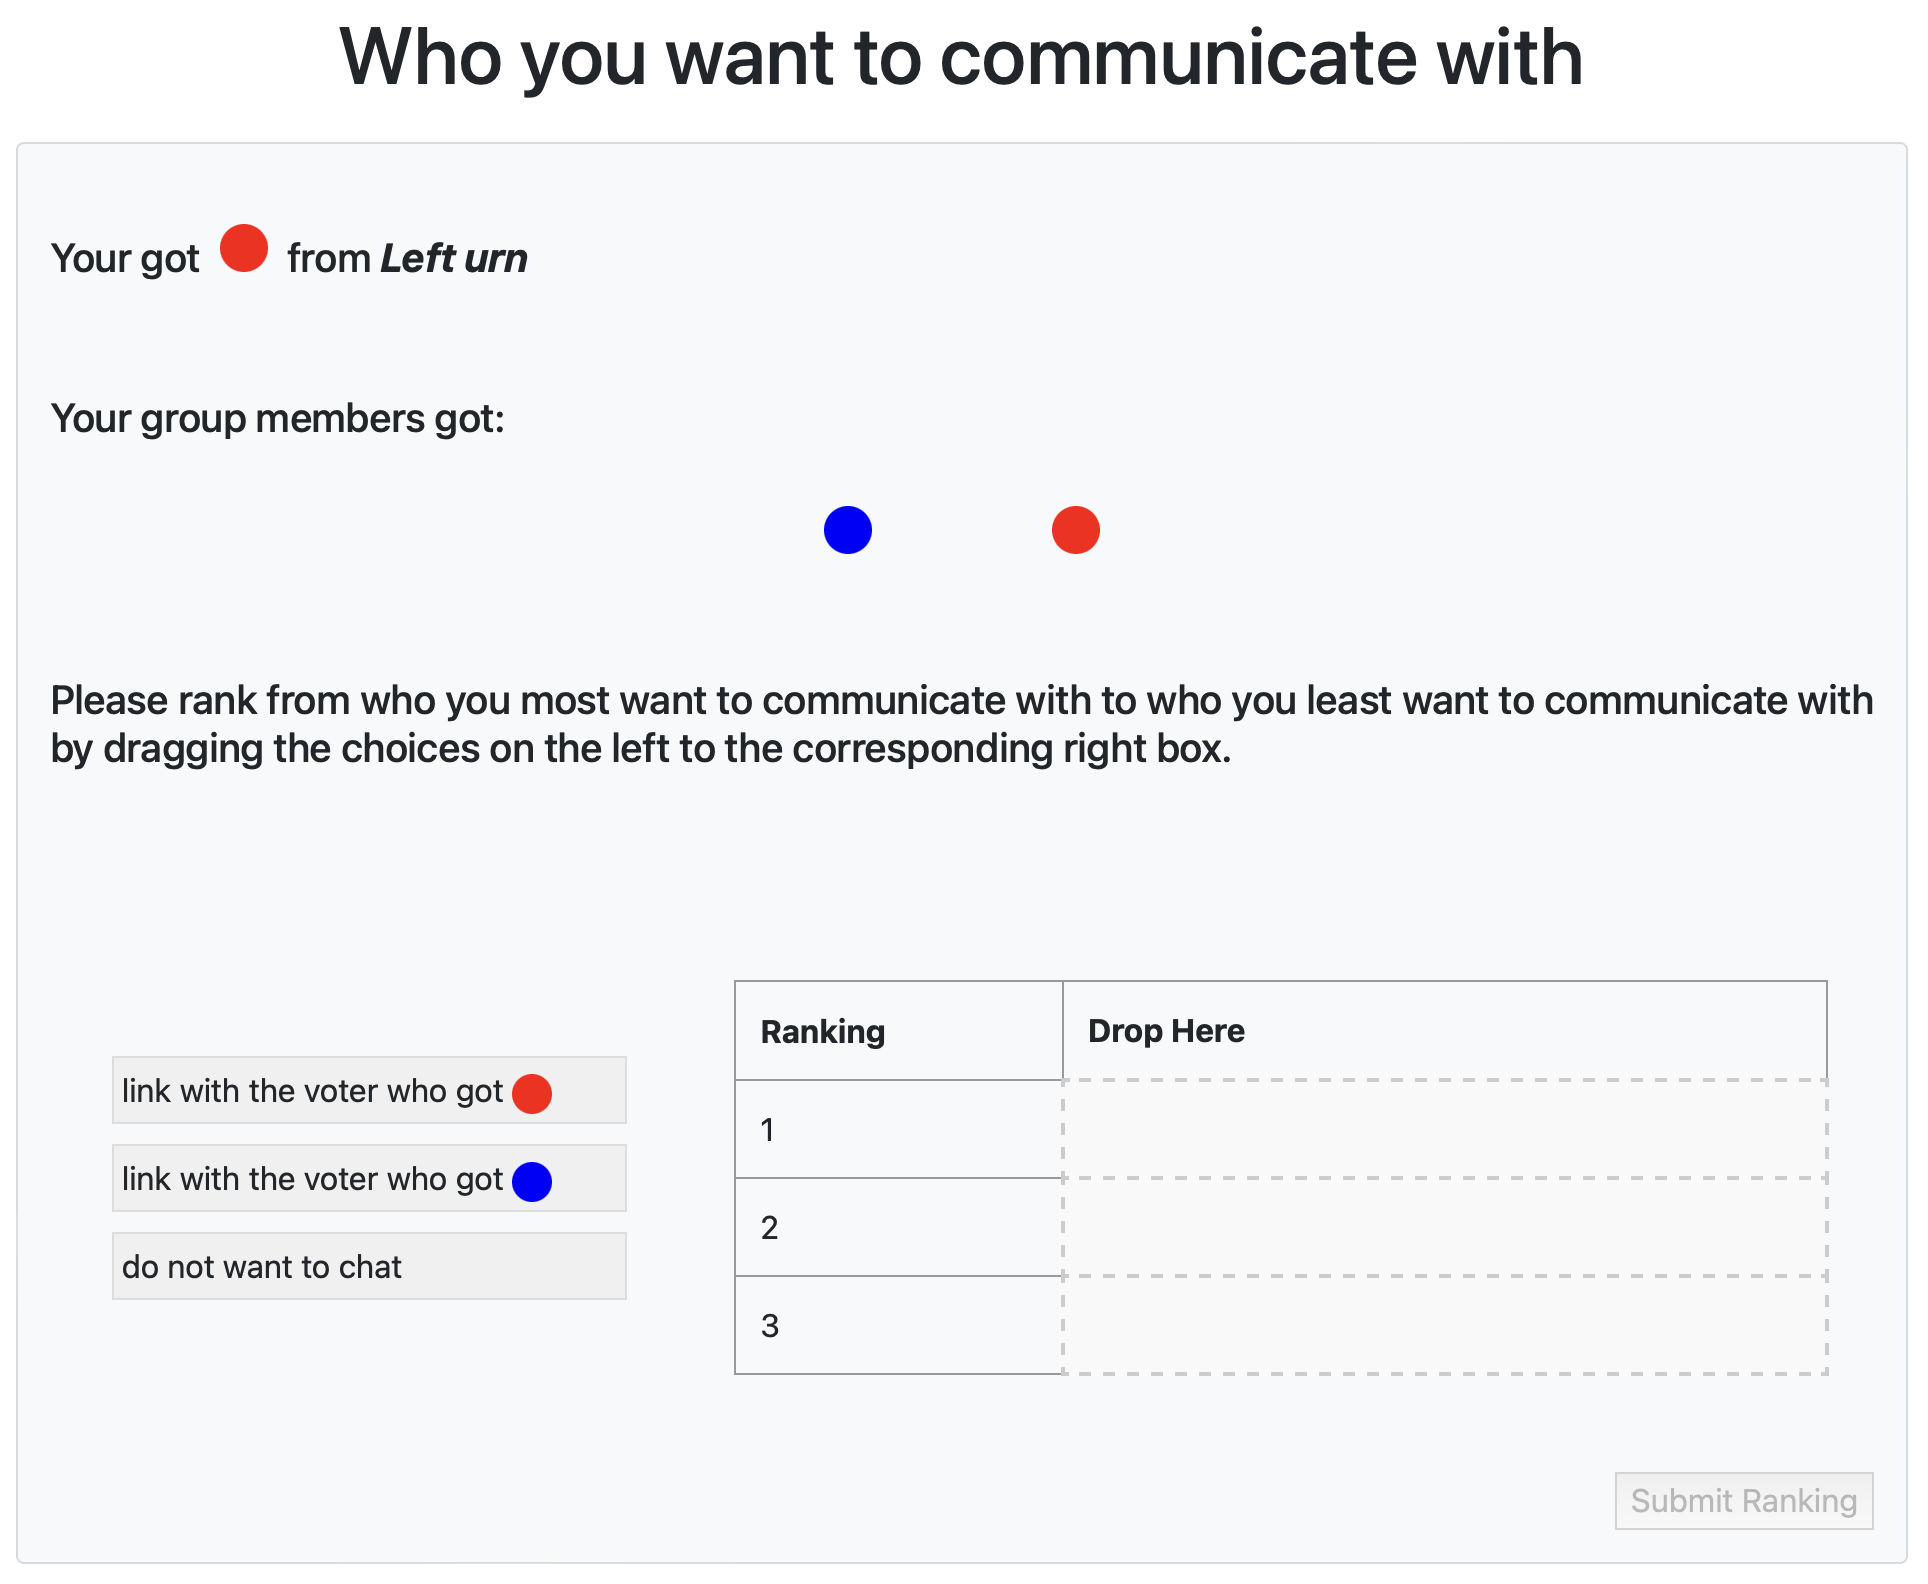
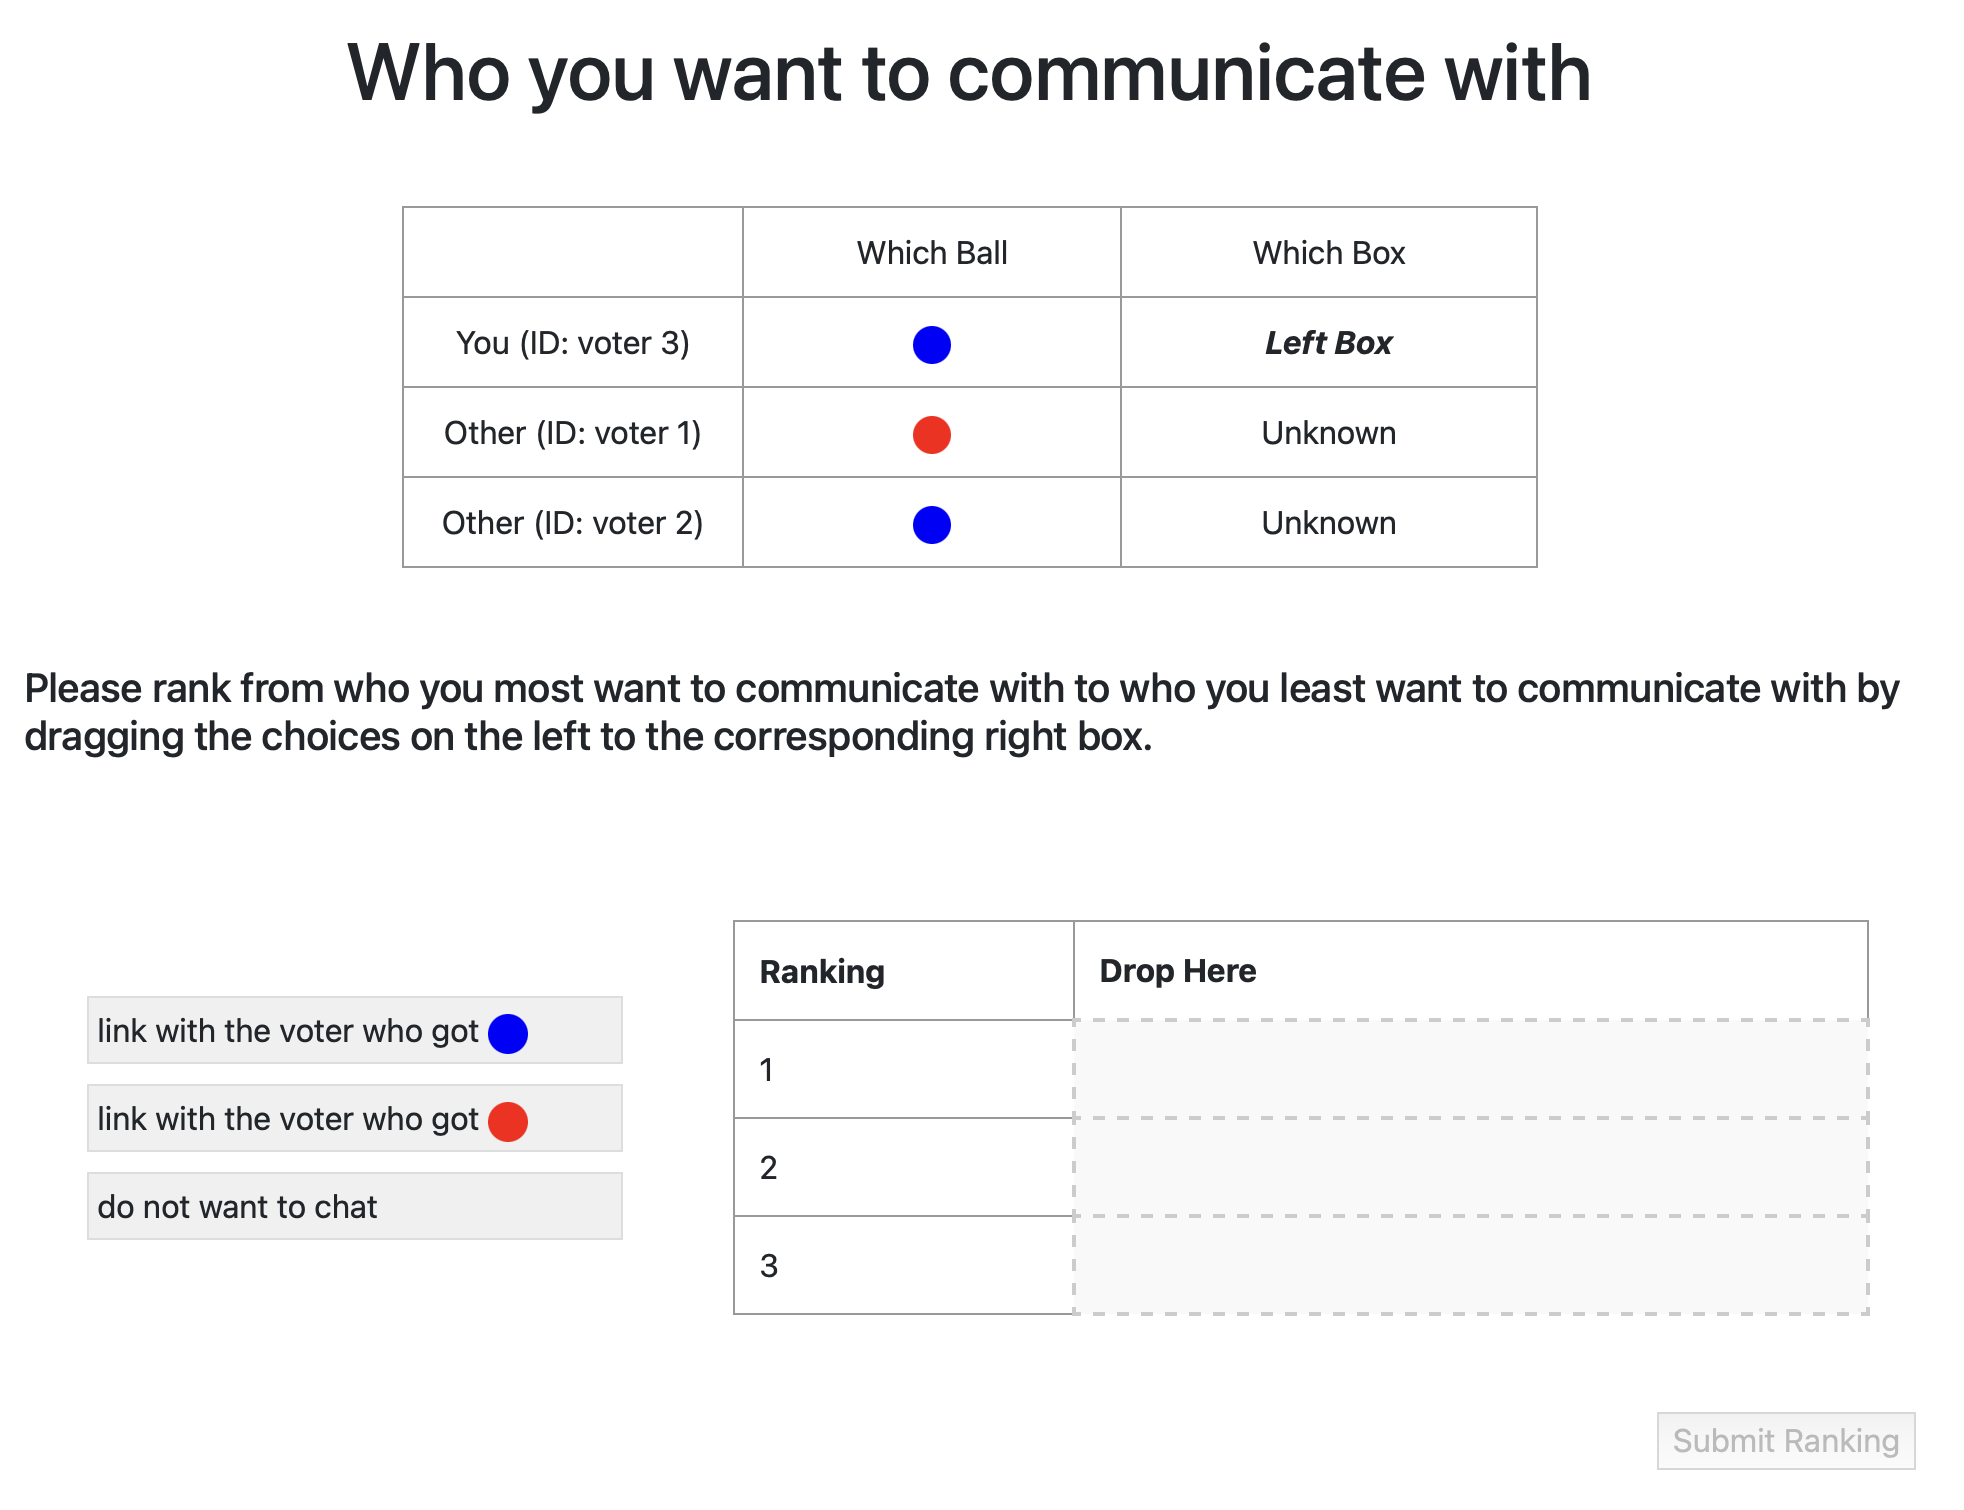
.

diff --git a/voting/Voting/Main_Instructions.html b/voting/Voting/Main_Instructions.html
@@ -29,7 +29,7 @@
 <h2> Structure of the round </h2>
 <h4>Stage 1:  Information </h4>
 
-                There is a state called the ''unknown state'' that is filled with multiple balls with different colors in two boxes. The state is either the <strong style="color: red;">''RED''</strong>, including two small boxes: <strong><em>Left Box</em></strong> and <strong><em>Right Box</em></strong>, or the <strong style="color: blue;">''BLUE''</strong>, including two small boxes: <strong><em>Left Box</em></strong> and <strong><em>Right Box</em></strong>. As you can see in the following Figure, the <strong style="color: red;">''RED''</strong> box more red balls, and the <strong style="color: blue;">''BLUE''</strong> has more blue balls in each box.
+                There is a state called the ''unknown state'' that is filled with multiple balls with different colors in two boxes. The state is either the <strong style="color: red;">''RED''</strong>, including two small boxes: <strong><em>Left Box</em></strong> and <strong><em>Right Box</em></strong>, or the <strong style="color: blue;">''BLUE''</strong>, including two small boxes: <strong><em>Left Box</em></strong> and <strong><em>Right Box</em></strong>. As you can see in the following Figure, the <strong style="color: red;">''RED''</strong> has more red balls, and the <strong style="color: blue;">''BLUE''</strong> has more blue balls in each box.
 <ul>
 <br>
 <br>
@@ -41,7 +41,7 @@
     <li>At the beginning of each round, the computer will flip a coin (50-50) to determine the ''unknown state'' - either the <strong style="color: red;">''RED''</strong> or <strong style="color: blue;">''BLUE''</strong>. <b>But you won’t know which one is chosen!</b></li>
     <li>Every <b>3 participants</b> in this lab are randomly selected into one group. </li>
     <li>After the group is formed, the computer will flip a coin (50-50) again to determine the small box - either <strong><em>Left Box</em></strong> or <strong><em>Right Box</em></strong>. Each of you will <b>randomly</b> got one ball from the chosen small box. </li>
-    <li><b>IMPORTANT!</b> The ball (not <strong><em>Left Box</em></strong> or <strong><em>Right Box</em></strong>!) you got will be shown to other two participants in your group. You will also be informed about balls (not <strong><em>Left Box</em></strong> or <strong><em>Right Box</em></strong>!) that other participants got. For example, if you got a red ball from <strong><em>Left Box</em></strong>, and your group members got a red ball and a blue ball, you will be shown the following screenshot:</li>
+    <li><b>IMPORTANT!</b> The ball (not <strong><em>Left Box</em></strong> or <strong><em>Right Box</em></strong>!) you got will be shown to other two participants in your group. You will also be informed about balls (not <strong><em>Left Box</em></strong> or <strong><em>Right Box</em></strong>!) that other participants got. For example, if you got a blue ball from <strong><em>Left Box</em></strong>, and your group members got a red ball and a blue ball, you will be shown the following screenshot:</li>
 <br>
 <br>
 <div style="text-align: center;">
@@ -82,6 +82,13 @@ Following by Stage 1, you have a chance to gain more information by communicatin
 
 <ul>
     <li>Now you need to cast a vote about which state is chosen: <b><span style="color: red;">RED</span></b> or <b><span style="color: blue;">BLUE</span></b>. </li>
+<br>
+<br>
+<div style="text-align: center;">
+   <img src="{% static 'global/vote.png' %}" alt="Urns" width="70%">
+</div>
+<br>
+<br>
     <li>Your payoff is determined by the number of correct votes: If there are 2 or 3 participants in your group vote correctly, each of you in the group will earn <strong style="font-size: 24px;">£15！</strong> If there are 0 or 1 participant in your group vote correctly, each of you in the group will only earn <b>£2</b>!</li>
 </ul>
 
